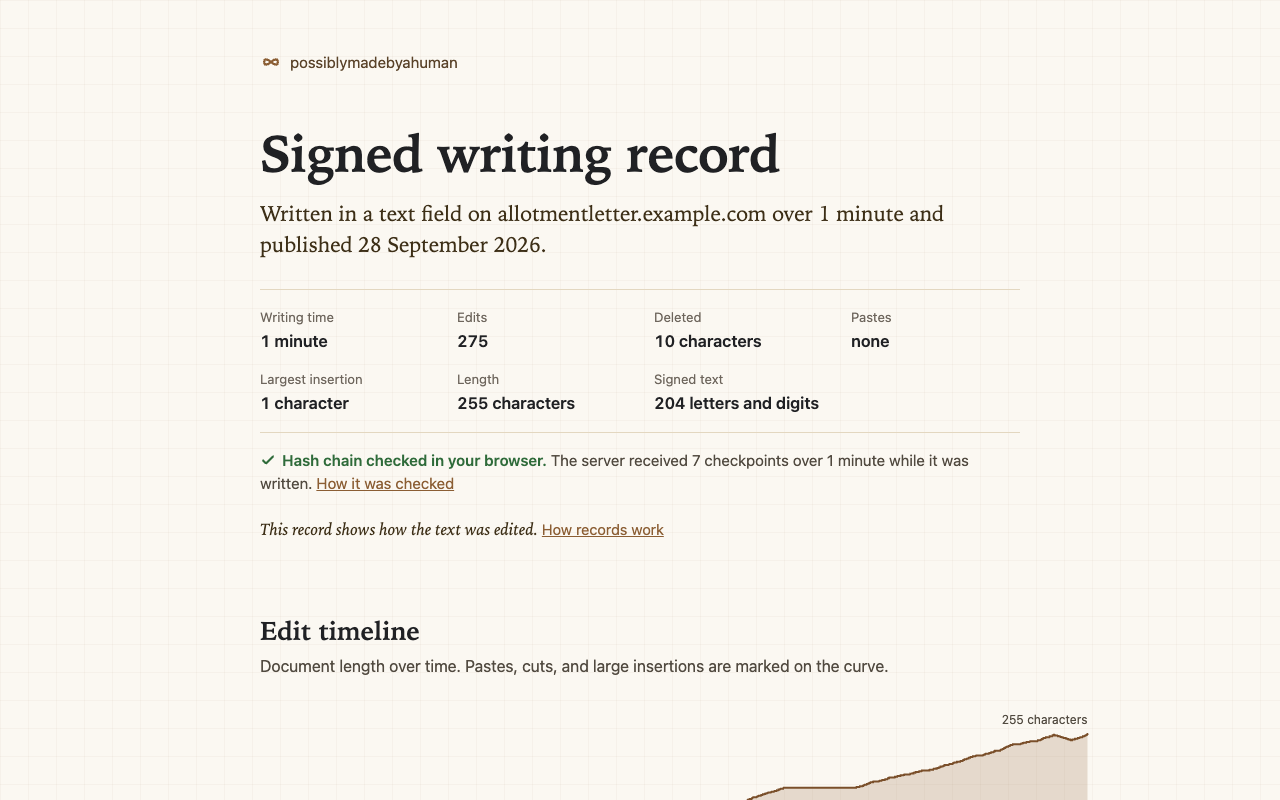
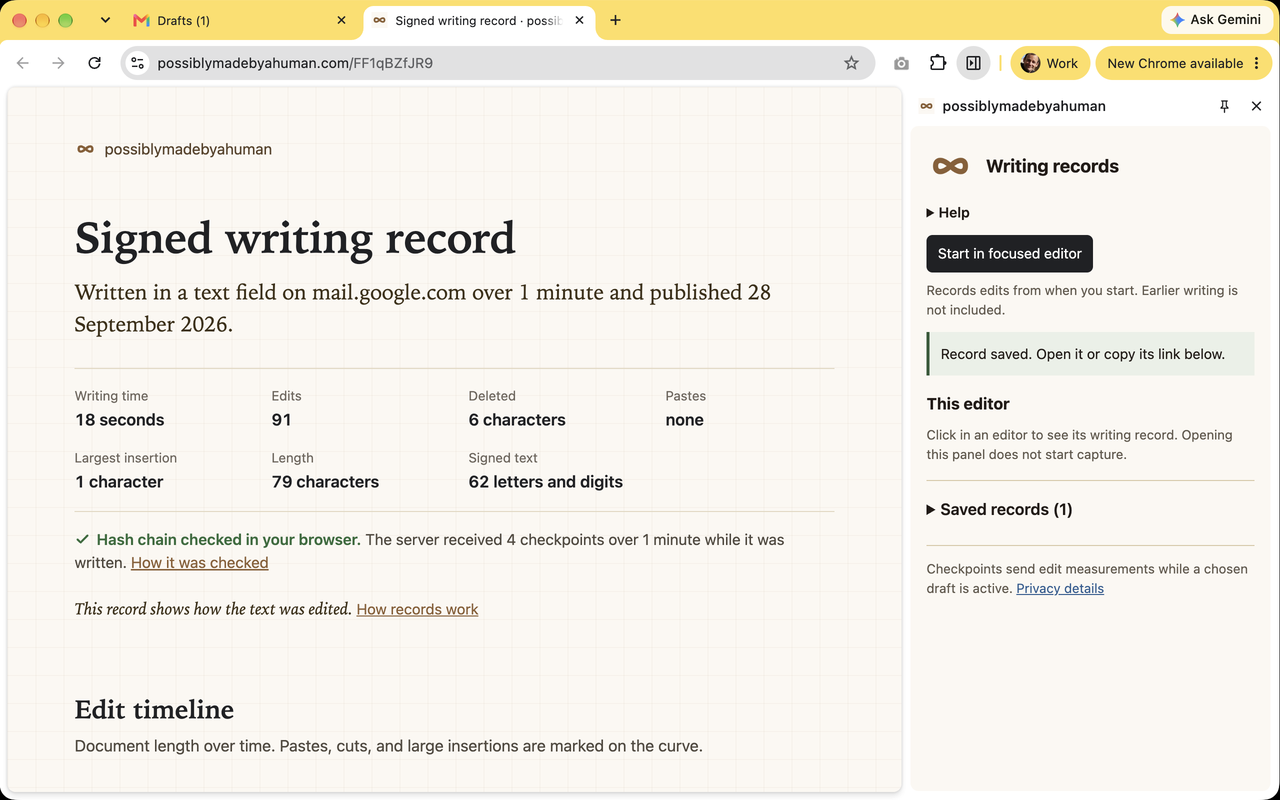
Use hand-captured Gmail screenshots for the store listing
Five 1280x800 screenshots taken in Chrome with the published extension
replace the generated ones, which were too faint to read at store size.
The writer's email address is removed from the tab titles and the finish
review. The generator now writes to its own folder so it cannot overwrite
them.

diff --git a/docs/chrome-web-store-listing.md b/docs/chrome-web-store-listing.md
@@ -90,11 +90,11 @@ releasing a new version.
 | Slot | File |
 | --- | --- |
 | Store icon (128x128) | `apps/browser-extension/store-assets/chrome-web-store-icon-128.png` |
-| Screenshot 1 | `apps/browser-extension/store-assets/screenshots/1-recording.png`: a reply being recorded, panel beside the page |
-| Screenshot 2 | `apps/browser-extension/store-assets/screenshots/2-review.png`: the finish review with the public context |
-| Screenshot 3 | `apps/browser-extension/store-assets/screenshots/3-published.png`: the saved record with its link |
-| Screenshot 4 | `apps/browser-extension/store-assets/screenshots/4-record.png`: the public record page |
-| Screenshot 5 | `apps/browser-extension/store-assets/screenshots/5-timeline.png`: quick facts and the edit timeline |
+| Screenshot 1 | `apps/browser-extension/store-assets/screenshots/1-start.png`: Start writing record in the right-click menu of a Gmail draft |
+| Screenshot 2 | `apps/browser-extension/store-assets/screenshots/2-recording.png`: the draft being recorded, with the side panel |
+| Screenshot 3 | `apps/browser-extension/store-assets/screenshots/3-review.png`: the finish review with the public context |
+| Screenshot 4 | `apps/browser-extension/store-assets/screenshots/4-record.png`: the published record page beside the saved-record panel |
+| Screenshot 5 | `apps/browser-extension/store-assets/screenshots/5-timeline.png`: the edit timeline and writing rhythm |
 | Small promo tile (440x280) | `apps/browser-extension/store-assets/promo-tile-440x280.png` |
 | Marquee promo tile (1400x560) | Optional; none prepared |
 
